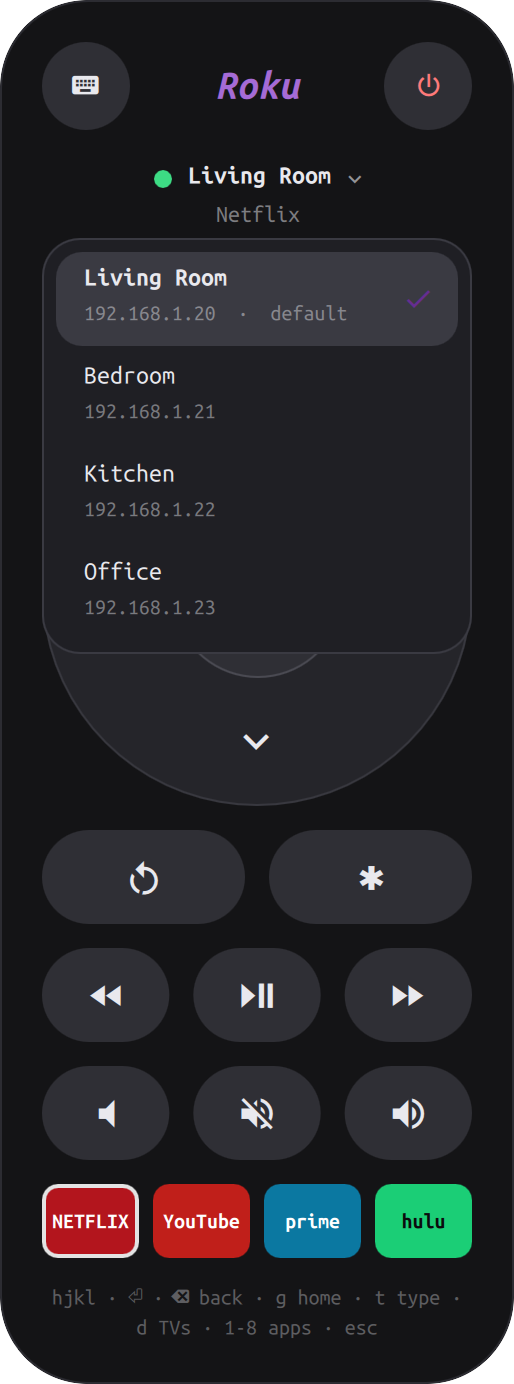
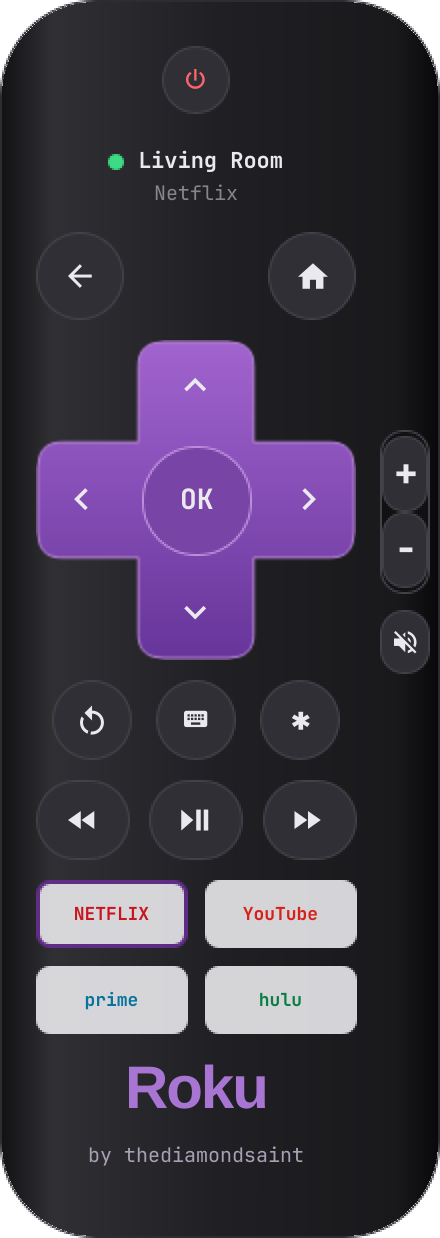
Restyle the Roku remote and add creator attribution

diff --git a/Remote.qml b/Remote.qml
@@ -298,16 +298,16 @@ Item {
   readonly property color glyphColor: "#e9e9ee"
   readonly property real pad: Style.space(18)
   readonly property real bodyW: Style.space(220)
-  readonly property real colW: bodyW - 2 * pad
+  readonly property real colW: bodyW - 2 * pad - Style.space(24)
   readonly property real sp: Style.space(10)
 
   function appColor(name) {
     var n = (name || "").toLowerCase()
     if (n.indexOf("netflix") >= 0) return "#c9151e"
     if (n.indexOf("youtube") >= 0) return "#d8201a"
-    if (n.indexOf("hulu") >= 0) return "#1ce783"
+    if (n.indexOf("hulu") >= 0) return "#087f47"
     if (n.indexOf("disney") >= 0) return "#1d3fbf"
-    if (n.indexOf("prime") >= 0) return "#0a86b4"
+    if (n.indexOf("prime") >= 0) return "#08749b"
     if (n.indexOf("max") >= 0) return "#5822b4"
     if (n.indexOf("apple") >= 0) return "#26262a"
     if (n.indexOf("plex") >= 0) return "#b8860b"
@@ -347,6 +347,8 @@ Item {
       anchors.fill: parent
       radius: Math.min(width, height) / 2
       color: ma.pressed || b.flash || b.lit ? root.rokuPurple : ma.containsMouse ? root.btnHover : root.btnColor
+      border.width: 1
+      border.color: ma.pressed ? "#111115" : "#414148"
       Behavior on color { ColorAnimation { duration: 90 } }
     }
     Text {
@@ -374,12 +376,33 @@ Item {
     id: dp
     width: root.colW
     height: root.colW
-    Rectangle {
+    // Molded purple cross, like the physical Roku direction pad.
+    Canvas {
       anchors.fill: parent
-      radius: width / 2
-      color: "#25252a"
-      border.width: 1
-      border.color: "#38383f"
+      onPaint: {
+        var c = getContext("2d")
+        var w = width, h = height, lo = 0.32, hi = 0.68, r = width * 0.08
+        c.clearRect(0, 0, w, h)
+        c.beginPath()
+        c.moveTo(w * lo + r, 1)
+        c.lineTo(w * hi - r, 1); c.quadraticCurveTo(w * hi, 1, w * hi, r)
+        c.lineTo(w * hi, h * lo); c.lineTo(w - r, h * lo)
+        c.quadraticCurveTo(w - 1, h * lo, w - 1, h * lo + r)
+        c.lineTo(w - 1, h * hi - r); c.quadraticCurveTo(w - 1, h * hi, w - r, h * hi)
+        c.lineTo(w * hi, h * hi); c.lineTo(w * hi, h - r)
+        c.quadraticCurveTo(w * hi, h - 1, w * hi - r, h - 1)
+        c.lineTo(w * lo + r, h - 1); c.quadraticCurveTo(w * lo, h - 1, w * lo, h - r)
+        c.lineTo(w * lo, h * hi); c.lineTo(r, h * hi)
+        c.quadraticCurveTo(1, h * hi, 1, h * hi - r)
+        c.lineTo(1, h * lo + r); c.quadraticCurveTo(1, h * lo, r, h * lo)
+        c.lineTo(w * lo, h * lo); c.lineTo(w * lo, r)
+        c.quadraticCurveTo(w * lo, 1, w * lo + r, 1)
+        c.closePath()
+        var gradient = c.createLinearGradient(0, 0, 0, h)
+        gradient.addColorStop(0, "#a264cf"); gradient.addColorStop(1, "#66359a")
+        c.fillStyle = gradient; c.fill()
+        c.strokeStyle = "#bb85dc"; c.lineWidth = 1; c.stroke()
+      }
     }
     Repeater {
       model: [
@@ -398,8 +421,8 @@ Item {
         Rectangle {
           anchors.fill: parent
           radius: width / 2
-          color: am.pressed || root.flashKey === arrow.modelData.cmd ? root.rokuPurple
-               : am.containsMouse ? "#3a3a41" : "transparent"
+          color: am.pressed || root.flashKey === arrow.modelData.cmd ? "#bb83ed"
+               : am.containsMouse ? "#995bc9" : "transparent"
         }
         Text {
           anchors.centerIn: parent
@@ -422,13 +445,13 @@ Item {
     }
     Rectangle {
       id: ok
-      width: dp.width * 0.40
+      width: dp.width * 0.34
       height: width
       radius: width / 2
       anchors.centerIn: parent
-      color: om.pressed || root.flashKey === "Select" ? root.rokuPurple : om.containsMouse ? root.btnHover : root.btnColor
+      color: om.pressed || root.flashKey === "Select" ? root.rokuPurple : om.containsMouse ? "#a469d4" : "#7845a6"
       border.width: 1
-      border.color: "#4a4a52"
+      border.color: "#be8ddd"
       Behavior on color { ColorAnimation { duration: 90 } }
       Text {
         anchors.centerIn: parent
@@ -460,7 +483,7 @@ Item {
     title: "Roku Remote"
     color: "transparent"
     implicitWidth: root.bodyW
-    implicitHeight: content.implicitHeight + root.pad * 2
+    implicitHeight: content.implicitHeight + root.pad * 2 + Style.space(16)
     minimumSize: Qt.size(implicitWidth, implicitHeight)
     maximumSize: Qt.size(implicitWidth, implicitHeight)
 
@@ -469,12 +492,35 @@ Item {
     Rectangle {
       id: card
       anchors.fill: parent
-      radius: Style.space(38)
-      color: root.bodyColor
+      radius: Style.space(48)
+      gradient: Gradient {
+        orientation: Gradient.Horizontal
+        GradientStop { position: 0; color: "#111114" }
+        GradientStop { position: 0.12; color: "#303034" }
+        GradientStop { position: 0.5; color: "#202024" }
+        GradientStop { position: 0.9; color: "#19191c" }
+        GradientStop { position: 1; color: "#08080a" }
+      }
       border.width: 1
       border.color: "#2c2c32"
 
       MouseArea { anchors.fill: parent; onClicked: keyCatcher.forceActiveFocus() }
+
+      Column {
+        x: card.width - Style.space(30)
+        y: Style.space(215)
+        spacing: Style.space(8)
+        Rectangle {
+          width: Style.space(25); height: Style.space(82); radius: width / 2
+          color: "#111114"; border.width: 1; border.color: "#43434a"
+          Column {
+            anchors.centerIn: parent
+            RBtn { width: Style.space(23); height: Style.space(38); cmd: "VolumeUp"; label: "+"; fontPx: Style.space(20); hint: "Volume up (+)"; onActivated: root.press("VolumeUp") }
+            RBtn { width: Style.space(23); height: Style.space(38); cmd: "VolumeDown"; label: "−"; fontPx: Style.space(20); hint: "Volume down (-)"; onActivated: root.press("VolumeDown") }
+          }
+        }
+        RBtn { width: Style.space(25); height: Style.space(32); cmd: "VolumeMute"; icon: root.glyph(0xF0581); fontPx: Style.space(15); hint: "Mute (m)"; onActivated: root.press("VolumeMute") }
+      }
 
       // Click anywhere else to dismiss the TV list
       MouseArea {
@@ -556,7 +602,7 @@ Item {
                 color: root.glyphColor
                 opacity: 0.45
                 font.family: Style.font.family
-                font.pixelSize: Style.font.caption - 1
+                font.pixelSize: Style.font.bodySmall
               }
               Text {
                 visible: devRow.isCurrent
@@ -598,34 +644,16 @@ Item {
         width: root.colW
         spacing: root.sp
 
-        // Top: keyboard (typing) | Roku wordmark | power
+        // TV power sits alone at the crown, as on the hardware remote.
         Item {
           width: parent.width
-          height: Style.space(38)
+          height: Style.space(44)
           RBtn {
-            width: parent.height; height: parent.height
-            anchors.left: parent.left
-            icon: root.glyph(0xF030C)
-            fontPx: Style.font.icon
-            lit: root.typing
-            hint: "Type text (t)"
-            onActivated: { root.typing = !root.typing; root.typed = "" }
-          }
-          Text {
+            width: Style.space(34); height: width
             anchors.centerIn: parent
-            text: "Roku"
-            color: "#a56bd6"
-            font.family: Style.font.family
-            font.pixelSize: Style.font.heading + Style.space(2)
-            font.bold: true
-            font.italic: true
-          }
-          RBtn {
-            width: parent.height; height: parent.height
-            anchors.right: parent.right
             icon: root.glyph(0xF0425)
             fontPx: Style.font.icon
-            glyph: "#ff7a7a"
+            glyph: "#ff666b"
             flash: root.flashKey === "PowerOff" || root.flashKey === "PowerOn"
             hint: "Power (p)"
             onActivated: root.togglePower()
@@ -657,6 +685,8 @@ Item {
                   color: root.statusColor
                 }
                 Text {
+                  width: Math.min(implicitWidth, root.colW - Style.space(35))
+                  elide: Text.ElideRight
                   text: root.deviceName || "Looking for Roku…"
                   color: root.glyphColor
                   font.family: Style.font.family
@@ -713,18 +743,26 @@ Item {
 
         // Back | Home
         Row {
-          spacing: root.sp
-          RBtn { width: (root.colW - root.sp) / 2; height: Style.space(40); cmd: "Back"; icon: root.glyph(0xF004D); hint: "Back (⌫ / b)"; onActivated: root.press("Back") }
-          RBtn { width: (root.colW - root.sp) / 2; height: Style.space(40); cmd: "Home"; icon: root.glyph(0xF02DC); hint: "Home (g)"; onActivated: root.press("Home") }
+          anchors.horizontalCenter: parent.horizontalCenter
+          spacing: root.colW - Style.space(88)
+          RBtn { width: Style.space(44); height: width; cmd: "Back"; icon: root.glyph(0xF004D); hint: "Back (⌫ / b)"; onActivated: root.press("Back") }
+          RBtn { width: Style.space(44); height: width; cmd: "Home"; icon: root.glyph(0xF02DC); hint: "Home (g)"; onActivated: root.press("Home") }
         }
 
         DPad {}
 
-        // Replay | Options
+        // Replay | keyboard entry | Options. Keyboard entry replaces voice search.
         Row {
-          spacing: root.sp
-          RBtn { width: (root.colW - root.sp) / 2; height: Style.space(40); cmd: "InstantReplay"; icon: root.glyph(0xF0709); hint: "Instant replay (r)"; onActivated: root.press("InstantReplay") }
-          RBtn { width: (root.colW - root.sp) / 2; height: Style.space(40); cmd: "Info"; label: "✱"; fontPx: Style.font.heading + Style.space(4); hint: "Options (i)"; onActivated: root.press("Info") }
+          anchors.horizontalCenter: parent.horizontalCenter
+          spacing: Style.space(12)
+          RBtn { width: Style.space(40); height: width; cmd: "InstantReplay"; icon: root.glyph(0xF0709); hint: "Instant replay (r)"; onActivated: root.press("InstantReplay") }
+          RBtn {
+            width: Style.space(40); height: width
+            icon: root.glyph(0xF030C); fontPx: Style.font.icon; lit: root.typing
+            hint: "Type into the TV keyboard (t)"
+            onActivated: { root.typing = !root.typing; root.typed = "" }
+          }
+          RBtn { width: Style.space(40); height: width; cmd: "Info"; label: "✱"; hint: "Options (i)"; onActivated: root.press("Info") }
         }
 
         // Rewind | Play/Pause | Fast-forward
@@ -735,31 +773,24 @@ Item {
           RBtn { width: (root.colW - 2 * root.sp) / 3; height: Style.space(40); cmd: "Fwd"; icon: root.glyph(0xF0211); hint: "Fast forward (.)"; onActivated: root.press("Fwd") }
         }
 
-        // Volume down | Mute | Volume up
-        Row {
-          spacing: root.sp
-          RBtn { width: (root.colW - 2 * root.sp) / 3; height: Style.space(40); cmd: "VolumeDown"; icon: root.glyph(0xF057F); hint: "Volume down (-)"; onActivated: root.press("VolumeDown") }
-          RBtn { width: (root.colW - 2 * root.sp) / 3; height: Style.space(40); cmd: "VolumeMute"; icon: root.glyph(0xF0581); hint: "Mute (m)"; onActivated: root.press("VolumeMute") }
-          RBtn { width: (root.colW - 2 * root.sp) / 3; height: Style.space(40); cmd: "VolumeUp"; icon: root.glyph(0xF057E); hint: "Volume up (+)"; onActivated: root.press("VolumeUp") }
-        }
-
         // App shortcut buttons (keys 1-4; 5-8 also work)
-        Row {
-          spacing: Style.space(6)
+        Grid {
+          columns: 2
+          spacing: Style.space(9)
           Repeater {
             model: root.apps.slice(0, 4)
             delegate: Item {
               id: appBtn
               required property int index
               required property var modelData
-              width: (root.colW - 3 * Style.space(6)) / 4
-              height: Style.space(32)
+              width: (root.colW - Style.space(9)) / 2
+              height: Style.space(34)
               Rectangle {
                 anchors.fill: parent
                 radius: Style.space(7)
-                color: root.appColor(appBtn.modelData.name)
+                color: "#eeedf0"
                 border.width: root.activeApp === appBtn.modelData.name ? 2 : 0
-                border.color: "#ffffff"
+                border.color: root.rokuPurple
                 opacity: am2.pressed ? 0.7 : am2.containsMouse ? 1.0 : 0.88
                 Behavior on opacity { NumberAnimation { duration: 90 } }
               }
@@ -769,7 +800,7 @@ Item {
                 horizontalAlignment: Text.AlignHCenter
                 verticalAlignment: Text.AlignVCenter
                 text: root.appLabel(appBtn.modelData.name)
-                color: root.appTextColor(appBtn.modelData.name)
+                color: root.appColor(appBtn.modelData.name)
                 font.family: Style.font.family
                 font.pixelSize: Style.font.caption - 1
                 font.bold: true
@@ -795,8 +826,32 @@ Item {
         Text {
           width: parent.width
           horizontalAlignment: Text.AlignHCenter
+          text: "Roku"
+          color: "#a875d2"
+          font.family: "sans-serif"
+          font.pixelSize: Style.space(30)
+          font.bold: true
+          font.letterSpacing: -1
+        }
+        Text {
+          width: parent.width
+          horizontalAlignment: Text.AlignHCenter
+          text: "<a href='https://github.com/thediamondsaint/roku-remote' style='color:#a9a0b5;text-decoration:none'>by thediamondsaint</a>"
+          textFormat: Text.RichText
+          font.family: Style.font.family
+          font.pixelSize: Style.space(10)
+          onLinkActivated: function(link) { Qt.openUrlExternally(link) }
+          MouseArea { id: creditHover; anchors.fill: parent; hoverEnabled: true; acceptedButtons: Qt.NoButton; cursorShape: Qt.PointingHandCursor }
+          ToolTip.visible: creditHover.containsMouse
+          ToolTip.text: "Made by Charles Nardella (@thediamondsaint) · v1.2.0\nView source, installation instructions, and issues on GitHub"
+          ToolTip.delay: 400
+        }
+        Text {
+          width: parent.width
+          horizontalAlignment: Text.AlignHCenter
           wrapMode: Text.WordWrap
-          text: root.notice ? root.notice : "hjkl · ⏎ · ⌫ back · g home · t type · d TVs · 1-8 apps · esc"
+          visible: root.notice !== ""
+          text: root.notice
           color: root.glyphColor
           opacity: root.notice ? 0.9 : 0.35
           font.family: Style.font.family

diff --git a/README.md b/README.md
@@ -1,12 +1,12 @@
 # Roku Remote for Omarchy
 
-<p align="center"><img src="docs/screenshot.png" width="260" alt="The Roku remote window with the TV list open: dark rounded body, circular D-pad with OK, media and volume buttons, and coloured app shortcuts"></p>
+<p align="center"><img src="docs/screenshot.png" width="260" alt="The Roku remote: sculpted dark body, purple directional pad, side volume rocker, four app shortcuts, and creator credit"></p>
 
 A Roku remote that looks like a real one, as a floating window for [Omarchy](https://omarchy.org)
 (Hyprland + Quickshell). Keyboard- and mouse-driven, talks straight to your TV over your local network.
 
-- Round buttons, a circular D-pad with OK, media and volume rows
-- Four coloured app buttons (keys `1`-`4`; `5`-`8` also work) and a "now playing" line
+- Sculpted dark body, purple directional pad, round buttons, and a side volume rocker
+- Four app buttons in a two-by-two layout (keys `1`-`4`; `5`-`8` also work) and a "now playing" line
 - Type into the TV's on-screen keyboard from your keyboard
 - Switch between several Rokus from a drop-down list (click the TV name, or press `d`)
 - Bundled `roku` command-line tool (`roku home`, `roku volup*3`, `roku netflix`, ...)
@@ -89,6 +89,12 @@ scans your local subnet for Rokus. Colours are fixed (the Roku look), not taken 
 - **Red dot ("can't reach"):** the TV is off or on another network/VLAN.
 - **Nothing found:** click the TV name and choose **Rescan TVs**, or press `F5`.
 - **After editing `Remote.qml`:** run `omarchy restart shell` (plugin QML is cached).
+
+## Creator
+
+Made by **Charles Nardella ([@thediamondsaint](https://github.com/thediamondsaint))**.
+Click the credit at the bottom of the remote to open this repository.
+This is an independent community project for Omarchy.
 
 ## License
 

diff --git a/docs/discord-post.md b/docs/discord-post.md
@@ -1,0 +1,15 @@
+I made a Roku remote plugin for Omarchy!
+
+It floats on your desktop and looks like the hardware remote: purple D-pad, side volume rocker, and four app shortcuts. Use your mouse or keyboard, type into your TV’s on-screen keyboard, and switch between multiple Rokus. It refreshes TV status automatically and includes a Rescan button.
+
+Made by **thediamondsaint**. Free and open source; connects directly to your Roku over your local network.
+
+GitHub: https://github.com/thediamondsaint/roku-remote
+
+Install:
+```bash
+omarchy plugin add https://github.com/thediamondsaint/roku-remote --enable --yes
+```
+Follow the README to add the floating-window rule and Super+Alt+R keybind. On the TV, enable Network access → Permissive.
+
+Attach `docs/screenshot.png` (rendered UI preview with example TV details).
